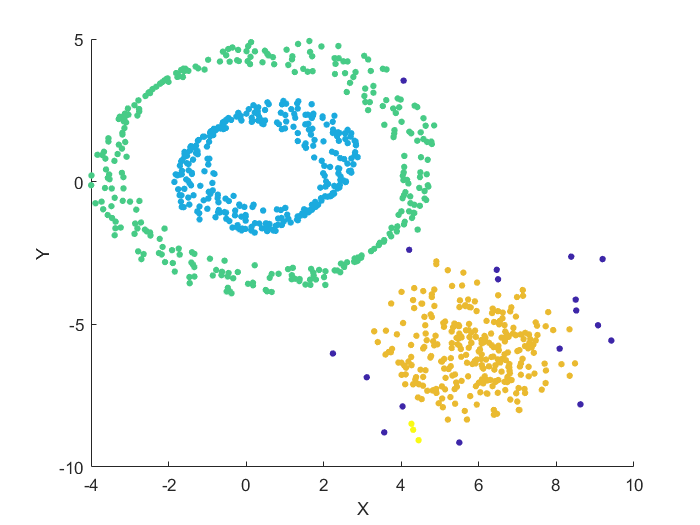
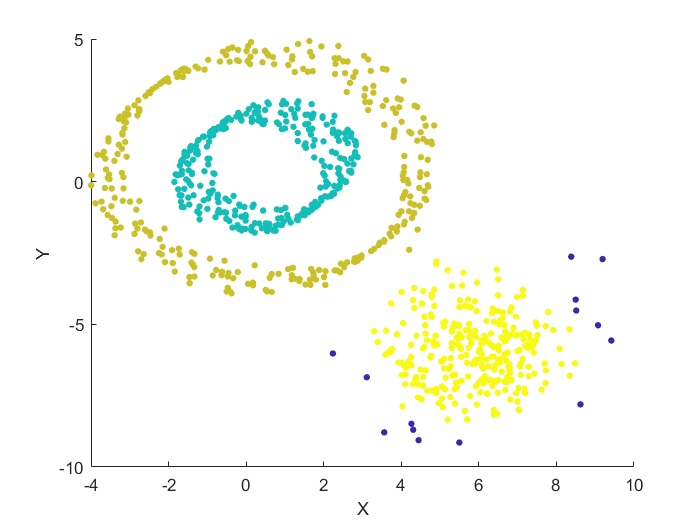
fine

diff --git a/HW2.m b/HW2.m
@@ -8,7 +8,7 @@ spiral_ds=load("Spiral.mat").X;
 circle_ds=load("Circle.mat").X;
 
 ks=[10,20,40];
-for i = 1:length(ks)
+for i = 1:length(ks) 
 
     if ks(i)==10
         thresh_c=0.01;
@@ -31,16 +31,17 @@ else
     disp("Cluster (spiral) non corretti");
 end
 
-other_methods(circle_ds,"circle");
-other_methods(spiral_ds,"spiral");
+other_methods(circle_ds,"circle", 0.7);
+other_methods(spiral_ds,"spiral", 1.5);
 
 
 %%
-% figure
-% scatter(circle_ds(:, 1), circle_ds(:, 2), 'filled' );
-%%
-% figure
-% scatter(spiral_ds(:, 1), spiral_ds(:, 2), 'filled');
+%plot of the original data sets
+figure
+scatter(circle_ds(:, 1), circle_ds(:, 2), 'filled' );
+
+figure
+scatter(spiral_ds(:, 1), spiral_ds(:, 2), 'filled');
 
 %%
 function clusters = main(ds, k, n_eigen,threshold, name)
@@ -50,7 +51,7 @@ function clusters = main(ds, k, n_eigen,threshold, name)
     L = D - W; % Laplacian matrix 
     % W, D, L matrices are stored in sparse format
     
-%     plot_L(L,k,name)
+    plot_L(L,k,name)
     
     % We only consider the eigevalues closest to 0 by setting a treshold.
     % The matrix U is then computed using their corresponding eigenvectors.
@@ -64,29 +65,29 @@ function clusters = main(ds, k, n_eigen,threshold, name)
     plot_clusters(ds,clusters,name,k);
 end
 
-function other_methods(ds,name)
+function other_methods(ds,name, epsilon)
     %other methods
     hierarchical_cl(ds,name);
-    %dbscan_cl(ds,name);
+    dbscan_cl(ds,name, epsilon);
     k_means(ds,name);
 end
 
 
 function plot_L(L,k,name)
-%     figure;
-%     spy(L);
+    figure;
+    spy(L);
     %title(sprintf("%s Laplacian matrix, k=%d.",name,k))
 end
 
 function plot_clusters(ds,clusters,name,k)
-    % scatter plot of the dataset points with respect to the clusters
-    % computed by the kmeans algrithm 
-%     figure;
-%     gscatter(ds(:,1), ds(:,2), clusters)
-%     legend('Cluster 1', 'Cluster 2', 'Cluster 3');
-%     colormap(jet);
-%     xlabel('X')
-%     ylabel('Y')
+    %scatter plot of the dataset points with respect to the clusters
+    %computed by the kmeans algrithm 
+    figure;
+    gscatter(ds(:,1), ds(:,2), clusters)
+    legend('Cluster 1', 'Cluster 2', 'Cluster 3');
+    colormap(jet);
+    xlabel('X')
+    ylabel('Y')
     %title(sprintf('k=%d. %s dataset clusters', k,name))
 end
 
@@ -95,33 +96,34 @@ function [eigenvalues,eigenvectors]=eigen(L,n_eigen,name,k)
     [eigenvectors, eigenvaluesMatrix] = eigs(L, n_eigen, 'smallestabs');
     
     eigenvalues = diag(eigenvaluesMatrix);
-    %figure;
-    % plot of the n smallest eigenvalues,
-%     plot(eigenvalues, '-o', 'MarkerSize', 5, 'Color', 'b');
-%     xlabel('Eigenvalues');
-%     ylabel('Value')
+    figure;
+    %plot of the n smallest eigenvalues,
+    plot(eigenvalues, '-o', 'MarkerSize', 5, 'Color', 'b');
+    xlabel('Eigenvalues');
+    ylabel('Value')
     %title(sprintf('k=%d. First %d eigenvalues. %s',k, n_eigen,name))
 end
 
 function hierarchical_cl(ds,name)
-%hierarchical
-    Z = linkage(ds(:,1:2), 'complete'); % Metrica di linkage
-    numClusters = 3; % Numero di cluster desiderati
+    %hierarchical
+    Z = linkage(ds(:,1:2)); 
+    numClusters = 3; %Number of desired clusters
     clusters = cluster(Z, 'maxclust', numClusters);
 
 
     figure;
     scatter(ds(:,1), ds(:,2), 15, clusters, 'filled');
+    
     %title(sprintf('Hierarchical Clustering, %s data set.',name));
     xlabel('X');
     ylabel('Y');
 end
 
-function dbscan_cl(ds,name)
+function dbscan_cl(ds,name, epsilon)
     %dbscan
-    epsilon = 0.5; % distanza massima tra punti per considerarli vicini
-    minPts = 3;    % numero minimo di punti richiesti per formare un cluster
+    minPts = 4;    % minimum number of points to form a cluster
     [labels, ~] = dbscan(ds(:,1:2), epsilon, minPts);
+    n_of_outliers = sum(labels == -1);
     
     figure;
     scatter(ds(:,1), ds(:,2), 15, labels, 'filled');
@@ -170,7 +172,7 @@ function W = knn(S, k)
         sortedIndices = sortedIndices(1 : k);
         for j = 1 : length(sortedIndices)
             M(i,sortedIndices(j)) = S(i,sortedIndices(j));
-            M(sortedIndices(j), i) = S(i,sortedIndices(j));
+            M(sortedIndices(j), i) = S(i,sortedIndices(j)); %To make it symmetric
         end
 
     end
@@ -192,9 +194,8 @@ end
 function b=check_clusters(ds,cl)
 
     %check if clusters we found are the same of the ones in the third
-    %column of the file spiral.mat indipendentemente of the order
-    %********************************************************************* 
-    %******************************************************************************
+    %column of the file spiral.mat
+    
     [m,n] =size(ds);
     e=1;
     f=1;
